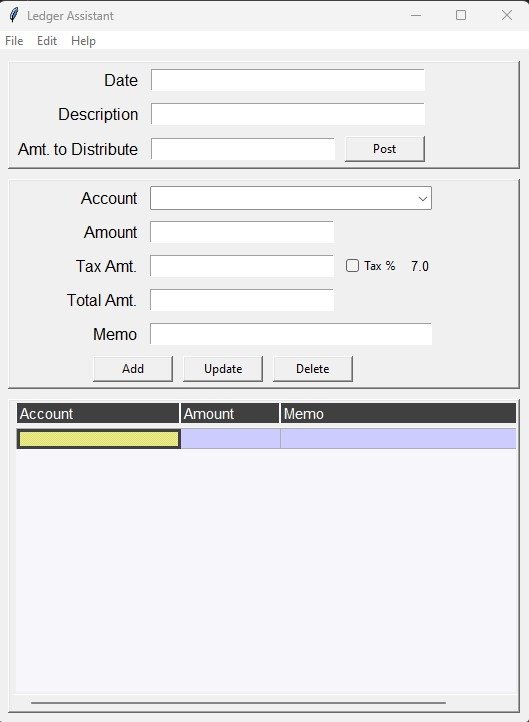
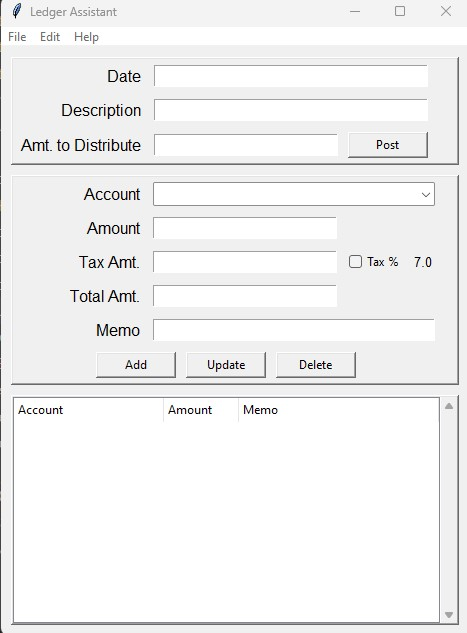
Replaced tkintertable with TreeView and updated screenshot

diff --git a/gui_mockup.py b/gui_mockup.py
@@ -144,14 +144,37 @@ fraButtonRow.grid(row=5,column=0,columnspan=4)
 
 # Split Details Frame
 fraSplitDetails = Frame(fraMain,bd=2,relief="raised")
-# varTableData = {1:{'Account':'',
-#                    'Amount':'',
-#                    'Memo':''}}
 
 
-# mdlModel.importDict(varTableData)
-tblSplitDetails = TableCanvas(fraSplitDetails,model=mdlModel,rowheaderwidth=0)
-tblSplitDetails.show()
+# Split Details Scrollbar
+scrSplitsScroll = Scrollbar(fraSplitDetails)
+scrSplitsScroll.pack(side=RIGHT,fill=Y)
+
+# Split Details Treeview Table
+tblSplits = ttk.Treeview(fraSplitDetails,yscrollcommand=scrSplitsScroll.set,selectmode="extended")
+tblSplits.pack()
+
+# Configure the scrollbar
+scrSplitsScroll.config(command=tblSplits.yview())
+
+
+# Define Columns
+tblSplits["columns"] = ("account","amount","memo")
+
+# Format Columns
+tblSplits.column("#0",width=0,stretch=NO)
+tblSplits.column("account",anchor=W,width=150)
+tblSplits.column("amount",anchor=W,width=75)
+tblSplits.column("memo",anchor=W,width=200)
+
+# Create Headings
+tblSplits.heading("#0",text="",anchor=W)
+tblSplits.heading("account",text="Account",anchor=W)
+tblSplits.heading("amount",text="Amount",anchor=W)
+tblSplits.heading("memo",text="Memo",anchor=W)
+
+
+
 
 fraMain.grid(row=0,column=0,padx=5,pady=5)
 fraTransaction.grid(row=0,column=0,padx=5,pady=5,sticky=(E,W))
